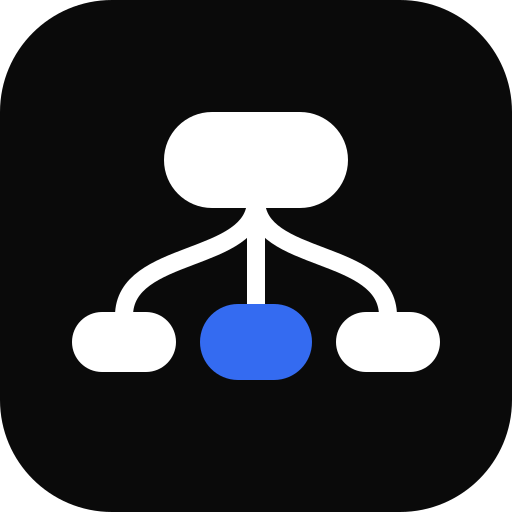
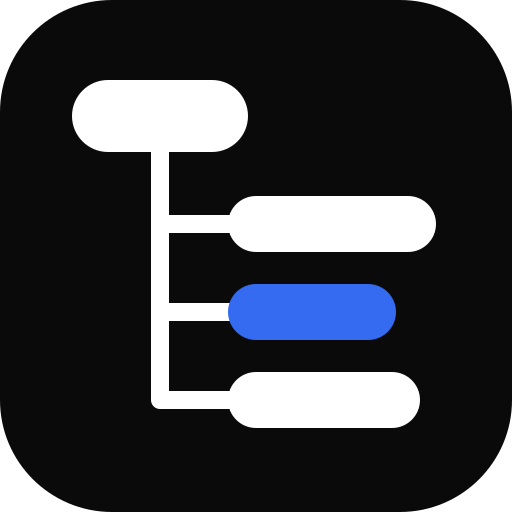
feat(brand): l'icona riprende il layout della mappa nell'app
Titolo in alto, tronco dritto che scende dal suo centro e tre argomenti
principali a destra, come la struttura logica disegnata dall'app; resta
lo stile nero T3 con l'argomento centrale nel blu primary.

Changed region(s): [[0.125, 0.1562, 0.875, 0.8438]]

diff --git a/apps/web/src/components/AppMark.tsx b/apps/web/src/components/AppMark.tsx
@@ -1,10 +1,10 @@
 /**
- * Marchio di XMap Studio: un blocco padre in alto da cui scendono tre rami
- * curvi verso tre blocchi figli, come la mappa nell'app. Segue il design
- * system T3: quadrato nero, segno bianco e un solo dettaglio nel blu
- * `primary` (il figlio centrale). Il marchio ha colori fissi e non segue il
- * tema: resta lo stesso in chiaro e in scuro, come l'icona installata. Il
- * disegno coincide con `apps/web/public/icon.svg`.
+ * Marchio di XMap Studio: la mappa come la disegna l'app, con il titolo in
+ * alto, un tronco dritto che scende dal suo centro e tre argomenti principali
+ * a destra. Segue il design system T3: quadrato nero, segno bianco e un solo
+ * dettaglio nel blu `primary` (l'argomento centrale). Il marchio ha colori
+ * fissi e non segue il tema: resta lo stesso in chiaro e in scuro, come
+ * l'icona installata. Il disegno coincide con `apps/web/public/icon.svg`.
  */
 import React from 'react';
 import { cn } from '@xmap/ui-kit';
@@ -23,14 +23,17 @@ export const AppMark: React.FC<AppMarkProps> = ({ size = 40, className }) => (
     className={cn('shrink-0', className)}
   >
     <rect width="256" height="256" rx="56" fill="#0a0a0a" />
-    <g fill="none" stroke="#ffffff" strokeWidth="9" strokeLinecap="round">
-      <path d="M128 100C128 132 62 124 62 158" />
-      <path d="M128 100V158" />
-      <path d="M128 100C128 132 194 124 194 158" />
-    </g>
-    <rect x="82" y="56" width="92" height="48" rx="24" fill="#ffffff" />
-    <rect x="36" y="156" width="52" height="30" rx="15" fill="#ffffff" />
-    <rect x="100" y="152" width="56" height="38" rx="19" fill="#346bf1" />
-    <rect x="168" y="156" width="52" height="30" rx="15" fill="#ffffff" />
+    <path
+      d="M80 76V200M80 112H116M80 156H116M80 200H116"
+      fill="none"
+      stroke="#ffffff"
+      strokeWidth="9"
+      strokeLinecap="round"
+      strokeLinejoin="round"
+    />
+    <rect x="36" y="40" width="88" height="36" rx="18" fill="#ffffff" />
+    <rect x="114" y="98" width="104" height="28" rx="14" fill="#ffffff" />
+    <rect x="114" y="142" width="84" height="28" rx="14" fill="#346bf1" />
+    <rect x="114" y="186" width="96" height="28" rx="14" fill="#ffffff" />
   </svg>
 );
